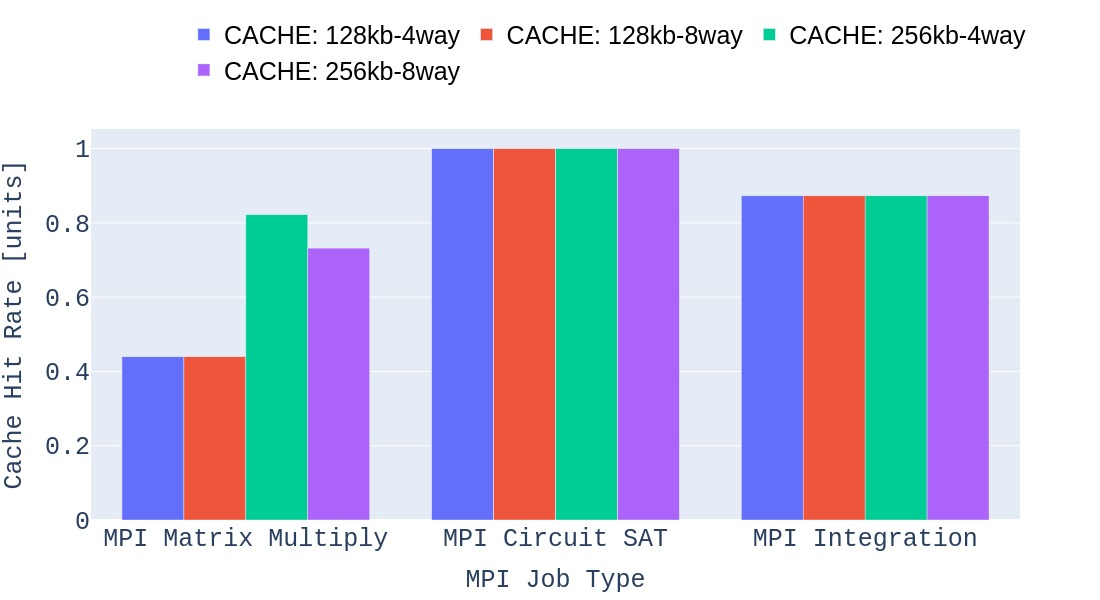
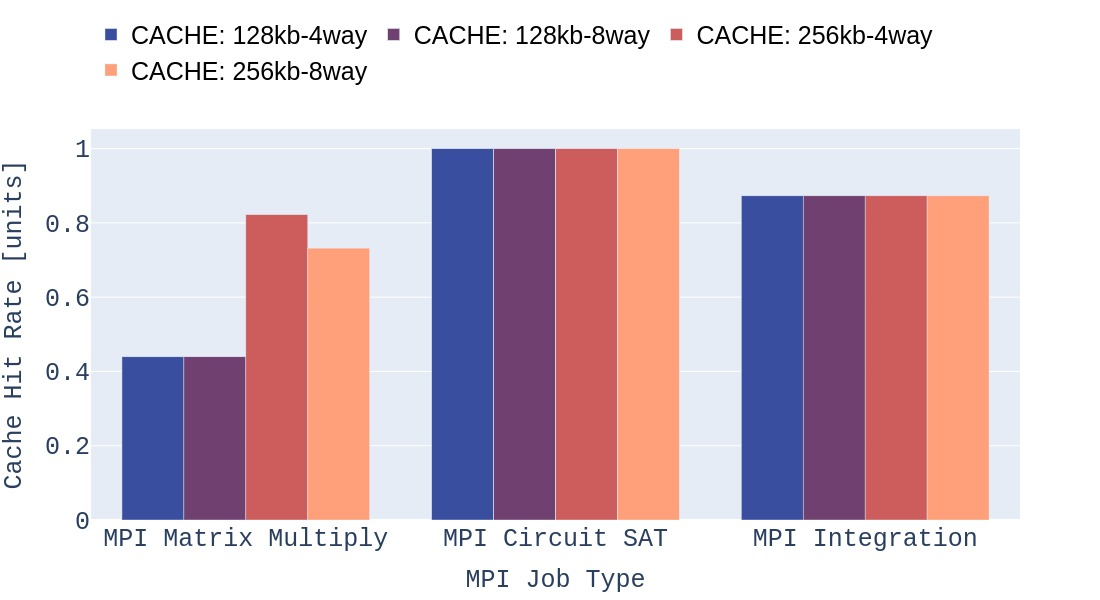
Updating some figure formats

diff --git a/experiment-data/plot_mpi_uses.py b/experiment-data/plot_mpi_uses.py
@@ -42,9 +42,9 @@ for exp in EXP_TYPES:
 
 x = ARCHS
 fig = go.Figure(data=[
-    go.Bar(name='MPI Integration', x=x, y=timings['INT'], text=timings['INT'], textfont=dict(family='Courier', size=20)),
-    go.Bar(name='MPI Circuit SAT', x=x, y=timings['SAT'], text=timings['SAT'], textfont=dict(family='Courier', size=20)),
-    go.Bar(name='MPI Matrix Multiply', x=x, y=timings['MM'], text=timings['MM'], textfont=dict(family='Courier', size=20))
+    go.Bar(name='MPI Integration', x=x, y=timings['INT'], text=timings['INT'], textfont=dict(family='Courier', size=20), marker_color='rgb(58, 78, 159)'),
+    go.Bar(name='MPI Circuit SAT', x=x, y=timings['SAT'], text=timings['SAT'], textfont=dict(family='Courier', size=20), marker_color='rgb(111, 64, 112)'),
+    go.Bar(name='MPI Matrix Multiply', x=x, y=timings['MM'], text=timings['MM'], textfont=dict(family='Courier', size=20), marker_color='indianred')
 ])
 # Change the bar mode
 fig.update_layout(barmode='group')
@@ -78,7 +78,7 @@ fig.update_layout(
         )
     ),
     legend=go.layout.Legend(
-        x=0.02,
+        x=0.0,
         y=1.2,
         font=dict(
             family="sans-serif",
@@ -87,7 +87,7 @@ fig.update_layout(
         ),
     )
 )
-fig.update_traces(texttemplate='%{text:.2s}sec', textposition='inside')
+fig.update_traces(texttemplate='%{text:.2f}sec', textposition='outside')
 fig.update_layout(legend_orientation="h")
 fig.update_yaxes(tickfont=dict(family='Courier', size=25))
 fig.update_xaxes(tickfont=dict(family='Courier', size=25))
@@ -96,11 +96,14 @@ fig.write_image(f"{home}/VT-S3FNet/experiment-data/figs/mpi_arch_timings.jpg", w
 
 x = ["MPI Matrix Multiply", "MPI Circuit SAT", "MPI Integration"]
 data = []
+colors = ['rgb(58, 78, 159)', 'rgb(111, 64, 112)', 'indianred', 'lightsalmon']
+i = 0
 for size in CACHE_SIZES:
     for assoc in CACHE_ASSOCS:
         data.append(
-            go.Bar(name=f"CACHE: {size}-{assoc}way", x=x, y=cache_hits[f"{size}_{assoc}"], textfont=dict(family='Courier', size=20))
+            go.Bar(name=f"CACHE: {size}-{assoc}way", x=x, y=cache_hits[f"{size}_{assoc}"], textfont=dict(family='Courier', size=20), marker_color=colors[i])
         )
+        i += 1
 fig = go.Figure(data=data)
 # Change the bar mode
 fig.update_layout(barmode='group')
@@ -135,7 +138,7 @@ fig.update_layout(
         )
     ),
     legend=go.layout.Legend(
-        x=0.1,
+        x=0.0,
         y=1.3,
         font=dict(
             family="sans-serif",

diff --git a/experiment-data/VT_Conversion_Model_Exp/results/plot_nsdi.py b/experiment-data/VT_Conversion_Model_Exp/results/plot_nsdi.py
@@ -180,8 +180,8 @@ for cmd in cmds:
 
 
 fig = go.Figure(data=[
-    go.Bar(name='Compiler assisted [Skylake]', x=cmd_labels, y=pmodel_skylake_pct, text=pmodel_skylake_pct,  textangle=-90, textfont=dict(family='Courier', size=20), marker_color='rgb(58, 78, 159)'),
-    go.Bar(name='Compiler assisted [Sandy bridge]', x=cmd_labels, y=pmodel_sb_pct, text=pmodel_sb_pct,  textangle=-90, textfont=dict(family='Courier', size=20), marker_color='indianred'),
+    go.Bar(name='Processor model [Skylake]', x=cmd_labels, y=pmodel_skylake_pct, text=pmodel_skylake_pct,  textangle=-90, textfont=dict(family='Courier', size=20), marker_color='rgb(58, 78, 159)'),
+    go.Bar(name='Processor model [Sandy bridge]', x=cmd_labels, y=pmodel_sb_pct, text=pmodel_sb_pct,  textangle=-90, textfont=dict(family='Courier', size=20), marker_color='indianred'),
     go.Bar(name='Plain ins-counting [Skylake]', x=cmd_labels, y=ins_counting_skylake_pct, text=ins_counting_skylake_pct,  textangle=-90, textfont=dict(family='Courier', size=20), marker_color='rgb(111, 64, 112)'),
     go.Bar(name='Plain ins-counting [Sandy bridge]', x=cmd_labels, y=ins_counting_sb_pct, text=ins_counting_sb_pct,  textangle=-90, textfont=dict(family='Courier', size=20), marker_color='lightsalmon'),
 ])
@@ -234,7 +234,7 @@ fig.update_layout(legend_orientation="h")
 fig.update_traces(texttemplate='%{text:.2s}%', textposition='inside')
 fig.update_yaxes(tickfont=dict(family='Courier', size=ylabel_font_size))
 fig.update_xaxes(tickfont=dict(family='Courier', size=xlabel_font_size))
-fig.write_image("vt_conversion_accuracy_pct.jpg", width=1000, height=600)
+fig.write_image("vt_conversion_accuracy_pct.jpg", width=1000, height=500)
 
 
 
@@ -345,7 +345,7 @@ for i in fig['layout']['annotations']:
 fig.update_layout(legend_orientation="h")
 fig.update_xaxes(title_font=dict(size=xlabel_font_size, family='Courier'), tickfont=dict(family='Courier', size=xlabel_font_size), type="log", dtick=1)
 fig.update_yaxes(title_font=dict(size=xlabel_font_size, family='Courier'), tickfont=dict(family='Courier', size=ylabel_font_size))
-fig.write_image("ins_count_overhead_comparison.png", width=900, height=600)
+fig.write_image("ins_count_overhead_comparison.png", width=900, height=550)
 
 
 

diff --git a/experiment-data/VT_Conversion_Model_Exp/results/plot_cache_stats.py b/experiment-data/VT_Conversion_Model_Exp/results/plot_cache_stats.py
@@ -87,7 +87,7 @@ x = ["sysbench", "bzip2", "sjeng", "h264ref"]
 
 data = []
 data.append(
-    go.Bar(name=f"Gem-5: 32KB-2way", x=x, y=[
+    go.Bar(name=f"gem5: 32KB-2way", x=x, y=[
         gem5_cache_stats['sysbench'][0],
         gem5_cache_stats['bzip2'][0],
         gem5_cache_stats['sjeng'][0],
@@ -108,7 +108,7 @@ data.append(
 )
 
 data.append(
-    go.Bar(name=f"Gem-5: 32KB-8way", x=x, y=[
+    go.Bar(name=f"gem5: 32KB-8way", x=x, y=[
         gem5_cache_stats['sysbench'][1],
         gem5_cache_stats['bzip2'][1],
         gem5_cache_stats['sjeng'][1],
@@ -162,7 +162,7 @@ fig.update_layout(
     ),
     legend=go.layout.Legend(
         x=legend_x,
-        y=legend_y,
+        y=legend_y + 0.1,
         font=dict(
             family="sans-serif",
             size=legend_font_size,
@@ -176,7 +176,7 @@ fig.update_layout(
 fig.update_layout(legend_orientation="h")
 fig.update_yaxes(tickfont=dict(family='Courier', size=ylabel_font_size))
 fig.update_xaxes(tickfont=dict(family='Courier', size=xlabel_font_size))
-fig.write_image(f"cache_hits_comparison.jpg", width=900, height=600)
+fig.write_image(f"cache_hits_comparison.jpg", width=900, height=500)
 
 x=['32 KB 2-way', '128 KB 2-way', '32 KB 8-way', '128 KB 8-way']
 
